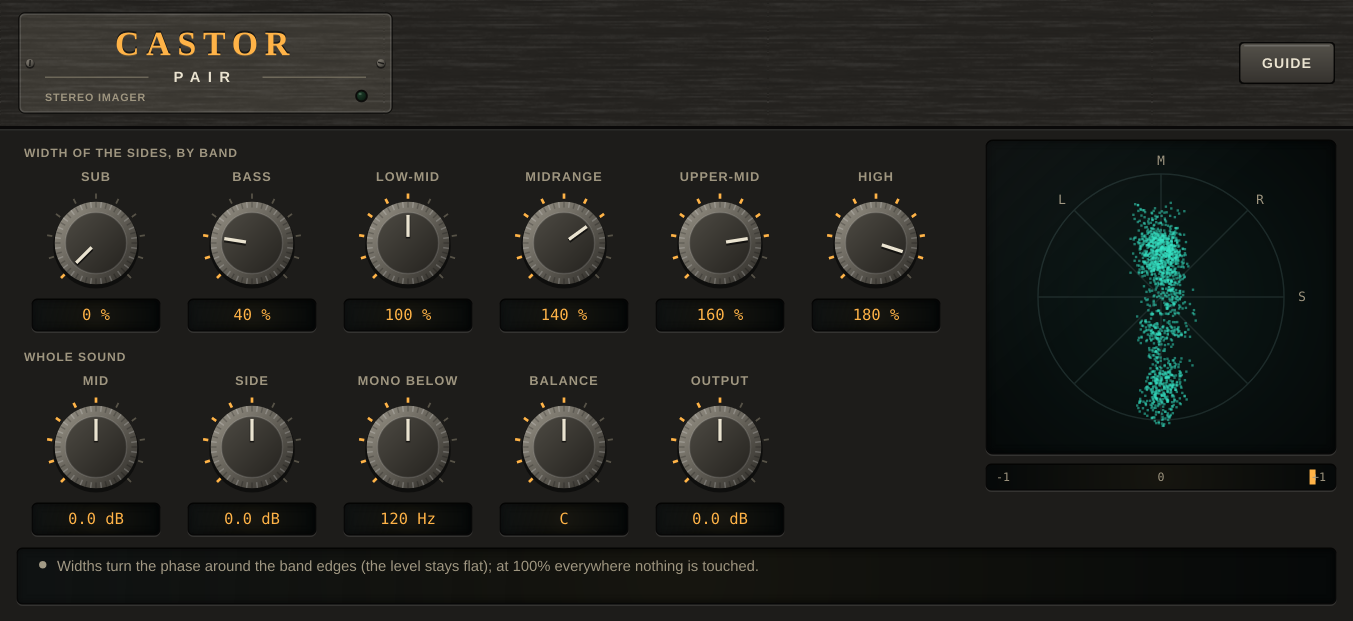
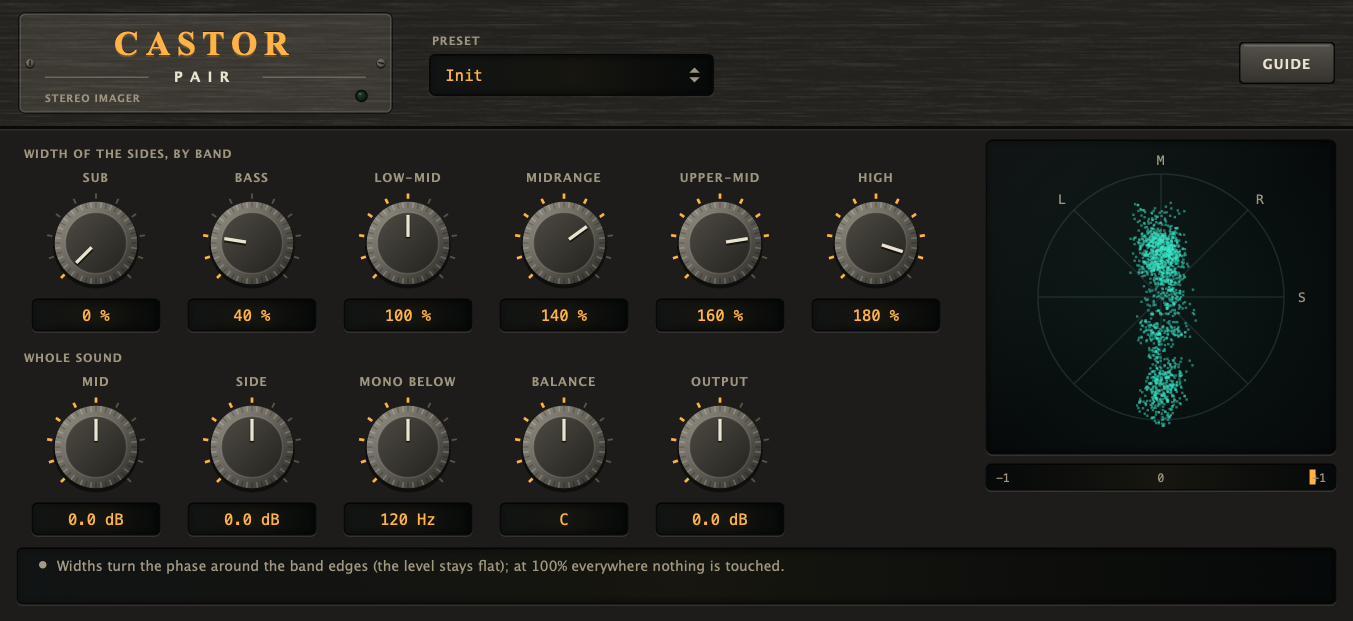
Castor: seven presets
Mono Bass, Club Safe, Widen Highs, Wide Master, Narrow Mix, Vocal Forward; BALANCE and OUTPUT are kept. README and CLAUDE.md say it builds on macOS and passes auval (by hand).

diff --git a/plugins/castor/Tests/UiCheck.cpp b/plugins/castor/Tests/UiCheck.cpp
@@ -116,5 +116,49 @@ int main()
         check (! tooLong, "every note fits a line of the strip");
     }
 
+    // Presets: each applies, has a name and a one-line purpose, the chosen one is kept with the session, and the box is in the header.
+    {
+        CastorProcessor q;
+        q.setPlayConfigDetails (2, 2, 48000.0, 512);
+        q.prepareToPlay (48000.0, 512);
+        bool all = q.getNumPrograms() == (int) presets().size() && q.getNumPrograms() >= 6;
+        for (int i = 0; i < q.getNumPrograms(); ++i)
+        {
+            q.setCurrentProgram (i);
+            const auto len = std::strlen (presets()[(size_t) i].purpose);
+            all = all && q.getProgramName (i).isNotEmpty() && q.getCurrentProgram() == i && len > 20 && len <= 140;
+        }
+        check (all, fmt ("all %d presets apply, have a name and a one-line purpose", q.getNumPrograms()));
+        const auto indexOf = [&] (const char* name)
+        {
+            for (int i = 0; i < q.getNumPrograms(); ++i)
+                if (q.getProgramName (i) == name)
+                    return i;
+            check (false, std::string ("a preset called ") + name);
+            return 0;
+        };
+        const auto raw = [&] (const juce::String& pid) { return q.apvts.getRawParameterValue (pid)->load(); };
+        setValue (q.apvts, id::balance, 40.0f);
+        setValue (q.apvts, id::out, 2.0f);
+        q.setCurrentProgram (indexOf ("Club Safe"));
+        check (std::fabs (raw (id::width (0))) < 0.5f && std::fabs (raw (id::width (1)) - 40.0f) < 0.5f && std::fabs (raw (id::width (4)) - 100.0f) < 0.5f && std::fabs (raw (id::monoBelow) - 150.0f) < 0.5f, "Club Safe: the sub in mono, the bass at 40%, the rest at 100%, mono below 150 Hz");
+        check (std::fabs (raw (id::balance) - 40.0f) < 0.5f && std::fabs (raw (id::out) - 2.0f) < 0.01f, "BALANCE and OUTPUT are kept by a preset");
+        q.setCurrentProgram (0);
+        check (std::fabs (raw (id::width (0)) - 100.0f) < 0.5f && std::fabs (raw (id::monoBelow) - kMonoOffHz) < 0.5f, "Init: the widths are back at 100% and the mono bass is off");
+        const int chosen = indexOf ("Widen Highs");
+        q.setCurrentProgram (chosen);
+        check (raw (id::width (5)) > 150.0f, "Widen Highs opens the top band");
+        juce::MemoryBlock saved;
+        q.getStateInformation (saved);
+        CastorProcessor other;
+        other.setStateInformation (saved.getData(), (int) saved.getSize());
+        check (other.getCurrentProgram() == chosen, "the chosen preset is saved with the session");
+        std::unique_ptr<juce::AudioProcessorEditor> holder (q.createEditor());
+        auto& editor = ui::innerOf<CastorEditor> (*holder);
+        editor.setVisible (true);
+        check (editor.presetBox.getNumItems() == q.getNumPrograms() && editor.presetBox.getSelectedId() == chosen + 1, "the editor's preset box lists the presets and shows the current one");
+        check (editor.presetBox.getRight() < editor.getWidth() && ! editor.presetBox.getBounds().intersects (editor.guideButton.getBounds()), "the preset box fits the header beside the GUIDE button");
+    }
+
     return test::finish ("CastorUiCheck");
 }

diff --git a/plugins/castor/Source/PluginEditor.cpp b/plugins/castor/Source/PluginEditor.cpp
@@ -24,6 +24,7 @@ CastorEditor::CastorEditor (CastorProcessor& p)
       monoKnob (p.apvts, id::monoBelow, "MONO BELOW", "Takes the sides away below this frequency (a 24 dB/oct high-pass on them), so the bass is in the middle: safe for mono, club systems and vinyl. Off at 20 Hz.", ui::Knob::Layout::below),
       balanceKnob (p.apvts, id::balance, "BALANCE", "Turns one channel down (not a pan: the loudness changes).", ui::Knob::Layout::below),
       outKnob (p.apvts, id::out, "OUTPUT", "Output gain, after everything.", ui::Knob::Layout::below),
+      presetBox (p, presets(), "BALANCE and OUTPUT are kept; the widths, MID, SIDE and MONO BELOW are set."),
       proc (p)
 {
     setLookAndFeel (&look);
@@ -35,7 +36,7 @@ CastorEditor::CastorEditor (CastorProcessor& p)
                                                          ui::Knob::Layout::below);
         addAndMakeVisible (*widths[(size_t) b]);
     }
-    for (auto* c : std::initializer_list<juce::Component*> { &midKnob, &sideKnob, &monoKnob, &balanceKnob, &outKnob, &guideButton })
+    for (auto* c : std::initializer_list<juce::Component*> { &midKnob, &sideKnob, &monoKnob, &balanceKnob, &outKnob, &presetBox, &guideButton })
         addAndMakeVisible (*c);
     scratchL.resize (4096);
     scratchR.resize (4096);
@@ -51,6 +52,10 @@ void CastorEditor::resized()
     auto header = bounds.removeFromTop (headerHeight).withTrimmedTop (8).withTrimmedBottom (8);
     nameplate = header.removeFromLeft (250);
     guideButton.setBounds (header.removeFromRight (64).withSizeKeepingCentre (64, 28));
+    header.removeFromLeft (24);
+    auto presetRow = header.withTrimmedTop (28).withHeight (28);
+    presetLabel = { presetRow.getX() + 2, presetRow.getY() - 15, 120, 12 };
+    presetBox.setBounds (presetRow.removeFromLeft (190));
 
     bounds.removeFromTop (10);
     auto body = bounds.removeFromTop (2 * cellHeight + 40);
@@ -85,6 +90,7 @@ void CastorEditor::paint (juce::Graphics& g)
     g.fillAll (colours::background);
     hw::drawHeaderPlate (g, getLocalBounds().removeFromTop (headerHeight).toFloat());
     hw::drawNameplate (g, nameplate, gui::kProjectWord, gui::kPluginWord, "Stereo imager", live, 25.0f);
+    hw::drawLabel (g, "Preset", presetLabel, juce::Justification::left, colours::dim, 9.0f);
     hw::drawLabel (g, "Width of the sides, by band", bandsLabel, juce::Justification::left, colours::dim, 9.0f);
     hw::drawLabel (g, "Whole sound", otherLabel, juce::Justification::left, colours::dim, 9.0f);
     ui::drawNoteStrip (g, noteStrip, adviceFor (adviceInput()));
@@ -144,5 +150,6 @@ void CastorEditor::timerCallback()
     }
     live = n > 0;
     correlation += 0.3f * (proc.engine.correlation.load (std::memory_order_relaxed) - correlation);
+    presetBox.sync();
     repaint();
 }

diff --git a/plugins/castor/Source/Presets.h b/plugins/castor/Source/Presets.h
@@ -1,0 +1,49 @@
+// SPDX-License-Identifier: AGPL-3.0-or-later
+// Copyright (C) 2026 The Pantheon authors
+
+#pragma once
+
+#include "Parameters.h"
+#include <pantheon/ui/Presets.h>
+
+// Starting points for the jobs a stereo imager is most often used for. A preset sets the widths, MID, SIDE and MONO BELOW; what it does not list is back at its
+// default. BALANCE and OUTPUT are kept (they are the level of the sound, not its image). Always listen in mono after widening.
+namespace castor
+{
+inline const std::vector<ui::Preset>& presets()
+{
+    const auto widths = [] (std::initializer_list<float> values)
+    {
+        std::vector<std::pair<juce::String, float>> v;
+        int band = 0;
+        for (const float w : values)
+            v.push_back ({ id::width (band++), w });
+        return v;
+    };
+    const auto with = [] (std::vector<std::pair<juce::String, float>> a, std::initializer_list<std::pair<juce::String, float>> more)
+    {
+        a.insert (a.end(), more.begin(), more.end());
+        return a;
+    };
+    static const std::vector<ui::Preset> list
+    {
+        { "Init", {}, "The starting point: every width at 100%, MID and SIDE at 0 dB, no mono bass: the sound as it is." },
+        { "Mono Bass", { { id::monoBelow, 120.0f } },
+          "Takes the sides away below 120 Hz: the bass is in the middle, safe for mono playback, club systems and vinyl. Nothing above is touched." },
+        { "Club Safe", with (widths ({ 0, 40, 100, 100, 100, 100 }), { { id::monoBelow, 150.0f } }),
+          "The sub in mono, the bass nearly mono, the rest as it is: for club systems. It widens nothing." },
+        { "Widen Highs", widths ({ 100, 100, 100, 110, 130, 160 }),
+          "Opens up the top: the sides grow from the midrange up and the low end stays put. Check in mono: wide highs can thin out." },
+        { "Wide Master", with (widths ({ 100, 100, 110, 120, 130, 150 }), { { id::monoBelow, 80.0f } }),
+          "A broad, safe widening for a master: mono below 80 Hz and up to 150% in the highs. Past 150% the image can fall apart in mono." },
+        { "Narrow Mix", widths ({ 70, 70, 70, 70, 70, 70 }),
+          "Pulls the whole image in to 70%: a mix that is too wide or smeared. It cannot separate elements that sit on top of each other." },
+        { "Vocal Forward", { { id::mid, 1.5f }, { id::side, -1.5f } },
+          "More middle and less sides: a lead vocal or a kick comes forward and the width recedes a little. Levels only; the widths are 100%." },
+    };
+    return list;
+}
+
+// A preset leaves the level of the sound alone.
+inline bool keepsParameter (const juce::String& pid) { return pid == id::balance || pid == id::out; }
+} // namespace castor

diff --git a/plugins/castor/Source/PluginProcessor.h b/plugins/castor/Source/PluginProcessor.h
@@ -4,6 +4,7 @@
 #pragma once
 
 #include "Parameters.h"
+#include "Presets.h"
 #include <pantheon/dsp/AnalyzerTap.h>
 #include <juce_audio_processors/juce_audio_processors.h>
 
@@ -26,10 +27,10 @@ public:
     bool producesMidi() const override { return false; }
     double getTailLengthSeconds() const override { return 0.0; }
 
-    int getNumPrograms() override { return 1; }
-    int getCurrentProgram() override { return 0; }
-    void setCurrentProgram (int) override {}
-    const juce::String getProgramName (int) override { return "Default"; }
+    int getNumPrograms() override { return programs.count(); }
+    int getCurrentProgram() override { return programs.current(); }
+    void setCurrentProgram (int index) override { programs.set (index); }
+    const juce::String getProgramName (int index) override { return programs.name (index); }
     void changeProgramName (int, const juce::String&) override {}
 
     void getStateInformation (juce::MemoryBlock&) override;
@@ -37,6 +38,7 @@ public:
 
     castor::Engine engine;
     juce::AudioProcessorValueTreeState apvts;
+    ui::Programs programs { apvts, castor::presets(), castor::keepsParameter }; // after apvts
     pdsp::StereoTap tapOut; // the output, for the goniometer
 
 private:

diff --git a/plugins/castor/Source/PluginEditor.h b/plugins/castor/Source/PluginEditor.h
@@ -24,6 +24,7 @@ public:
 
     std::array<std::unique_ptr<ui::Knob>, castor::kBands> widths;
     ui::Knob midKnob, sideKnob, monoKnob, balanceKnob, outKnob;
+    ui::PresetBox presetBox;
     ui::GuideButton guideButton { castor::guideTitle(), castor::guideText() };
     juce::TextButton& guide() noexcept { return guideButton; }
     std::vector<ui::Note> notes() const { return castor::adviceFor (adviceInput()); } // what the strip under the controls says, for the checks
@@ -36,7 +37,7 @@ private:
     CastorProcessor& proc;
     HardwareLookAndFeel look;
     juce::TooltipWindow tooltips { this, 600 };
-    juce::Rectangle<int> nameplate, gonio, correlationBar, noteStrip, bandsLabel, otherLabel;
+    juce::Rectangle<int> nameplate, presetLabel, gonio, correlationBar, noteStrip, bandsLabel, otherLabel;
     std::array<float, kPoints> pointL {}, pointR {};
     std::vector<float> scratchL, scratchR;
     float correlation = 1.0f;

diff --git a/plugins/castor/Source/PluginProcessor.cpp b/plugins/castor/Source/PluginProcessor.cpp
@@ -52,6 +52,7 @@ void CastorProcessor::processBlock (juce::AudioBuffer<float>& buffer, juce::Midi
 
 void CastorProcessor::getStateInformation (juce::MemoryBlock& dest)
 {
+    programs.saveTo (apvts.state);
     if (auto xml = apvts.copyState().createXml())
         copyXmlToBinary (*xml, dest);
 }
@@ -60,7 +61,10 @@ void CastorProcessor::setStateInformation (const void* data, int size)
 {
     if (auto xml = getXmlFromBinary (data, size))
         if (xml->hasTagName (apvts.state.getType()))
+        {
             apvts.replaceState (juce::ValueTree::fromXml (*xml));
+            programs.loadFrom (apvts.state);
+        }
 }
 
 juce::AudioProcessorEditor* CastorProcessor::createEditor() { return new ui::ScaledEditor<CastorEditor> (*this, apvts.state, *this); }

diff --git a/plugins/castor/CLAUDE.md b/plugins/castor/CLAUDE.md
@@ -12,7 +12,7 @@ cmake --build build --target CastorUiCheck && ./build/CastorUiCheck_artefacts/Re
 cmake --build build --target CastorSnapshot && ./build/CastorSnapshot_artefacts/Release/CastorSnapshot docs/screenshot.png
 ```
 
-- Building the plugin targets does **not** install them (`CASTOR_INSTALL_AFTER_BUILD`, off by default).
+- Building the plugin targets does **not** install them (`CASTOR_INSTALL_AFTER_BUILD`, off by default; a build folder configured with it ON does: check the cache). `scripts/build.sh castor` is the way to build and check (see the repository's CLAUDE.md).
 - `CastorTests`, `UiCheck` and `Snapshot` are `EXCLUDE_FROM_ALL`; build them by name. `Source/DSP` has no JUCE in it, so the DSP tests also compile with
   `g++ -std=c++20 -O2 -I../../shared/dsp/include -ISource -ITests Tests/Tests.cpp` (a quick loop); run them also with `-O3 -march=native` and with `-O3 -ffast-math`, each on its own.
 - Definition of done for a DSP change: `CastorTests` passes **and** the numbers the README quotes still match its output.
@@ -22,6 +22,7 @@ cmake --build build --target CastorSnapshot && ./build/CastorSnapshot_artefacts/
 
 ```
 Source/DSP/Engine.h  no GUI, no JUCE: the width of each band (pdsp::BandSplitter), the crossfade, mid / side / mono below / balance / output, the correlation; covered by Tests/Tests.cpp
+Source/Presets.h     the presets (settings, names, one-line purposes); the mechanism is `shared/ui/.../Presets.h`
 Source/Advice.h      the notes of the strip under the controls and the GUIDE text; plain C++
 Source/Parameters.h  parameter layout, readParams()                       <- the single source of truth for parameters
 Source/Plugin*.{h,cpp}, Source/UI/   JUCE wrapper and editor (the look is `shared/ui`); the processor feeds `tapOut` (a `pdsp::StereoTap`) for the goniometer
@@ -45,6 +46,9 @@ neutral, so `l = l0 + 0 + 0`. BALANCE and OUTPUT multiply by `leftGain x outGain
 
 **Real time.** `Engine::process` allocates and locks nothing. The goniometer is fed by the processor through the shared lock-free `pdsp::StereoTap`; nothing of it runs on the audio thread except the push.
 **Bad samples:** NaN and infinity are replaced by 0 on the way in.
+
+**Presets** are `ui::Preset`s in `Source/Presets.h` (the settings as real values, a name, a one-line purpose of at most 140 characters); the processor's `ui::Programs` applies them (every parameter that the plugin's `keepsParameter` does not claim goes back to its default first, so a preset does not inherit the last one) and keeps the chosen index in the session's state
+(`program`); the editor's `ui::PresetBox` lists them and `sync()`s with the host. A new parameter needs thinking about in each preset: it goes back to its default unless the preset lists it. UiCheck pins that every preset applies, what one specific preset sets, what is kept, and that the box fits the header.
 
 **Parameters.** Ids (`castor::id`: `width1` ... `width6`, `mid`, `side`, `mono`, `balance`, `out`) are stored in sessions and automation: never rename or remove one. All are `ParameterID` version 1; a new one
 needs a higher version, an entry in `readParams()` and a place in the editor. The width ids follow the order of `pdsp::bands::kBands`.

diff --git a/plugins/castor/README.md b/plugins/castor/README.md
@@ -17,6 +17,7 @@ namespaces and plugin codes use the short name "Castor".)
 | **Mono below** | 20 Hz (off) to 500 Hz: the sides go through a 24 dB/oct high-pass at this frequency, so below it the sound is in the middle: safe for mono playback, club systems and vinyl. |
 | **Balance** | L 100 to R 100: turns one channel down (not a pan). |
 | **Output** | -12 to +12 dB. |
+| **Presets** | Seven starting points (Init, Mono Bass, Club Safe, Widen Highs, Wide Master, Narrow Mix, Vocal Forward). A preset sets the widths, MID, SIDE and MONO BELOW; BALANCE and OUTPUT are kept. |
 
 The goniometer draws the last 1536 samples of the output as a cloud, left and right turned a quarter (a vertical line is mono, a horizontal one out of phase); the bar under it is the
 correlation of the output over 0.3 s: +1 mono, 0 wide, -1 out of phase.
@@ -49,7 +50,7 @@ correlation of the output over 0.3 s: +1 mono, 0 wide, -1 out of phase.
   band edge is slightly smeared. At 100% everywhere the sound is not touched at all.
 - **The six bands are fixed** (the bands of music of `shared/dsp`), not movable.
 - It has no delay and does not clip or limit: a wider image can raise the peaks.
-- It has not been built on macOS or run through `auval`, and it has no `HostCheck` (see "Not yet in line" in the repository's [CLAUDE.md](../../CLAUDE.md)).
+- It builds on macOS (VST3 and AU, run by hand on 2026-11-13) and `auval -v` passes for the AU; it is not in a macOS CI job, and it has no `HostCheck` (see "Not yet in line" in the repository's [CLAUDE.md](../../CLAUDE.md)).
 
 ## Building
 
